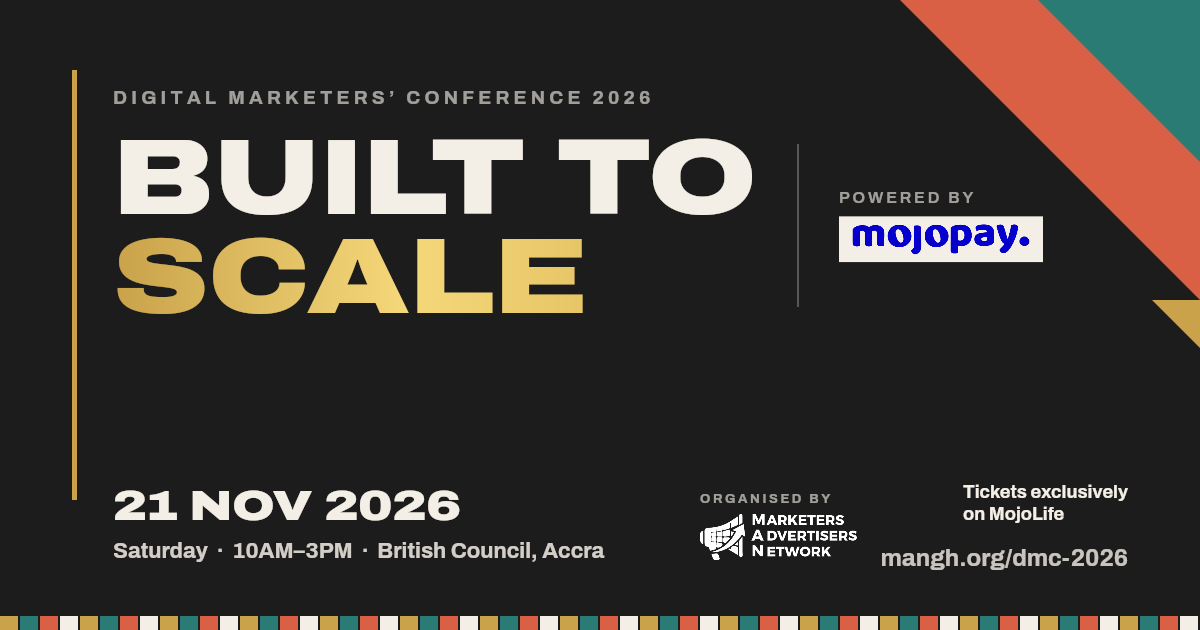
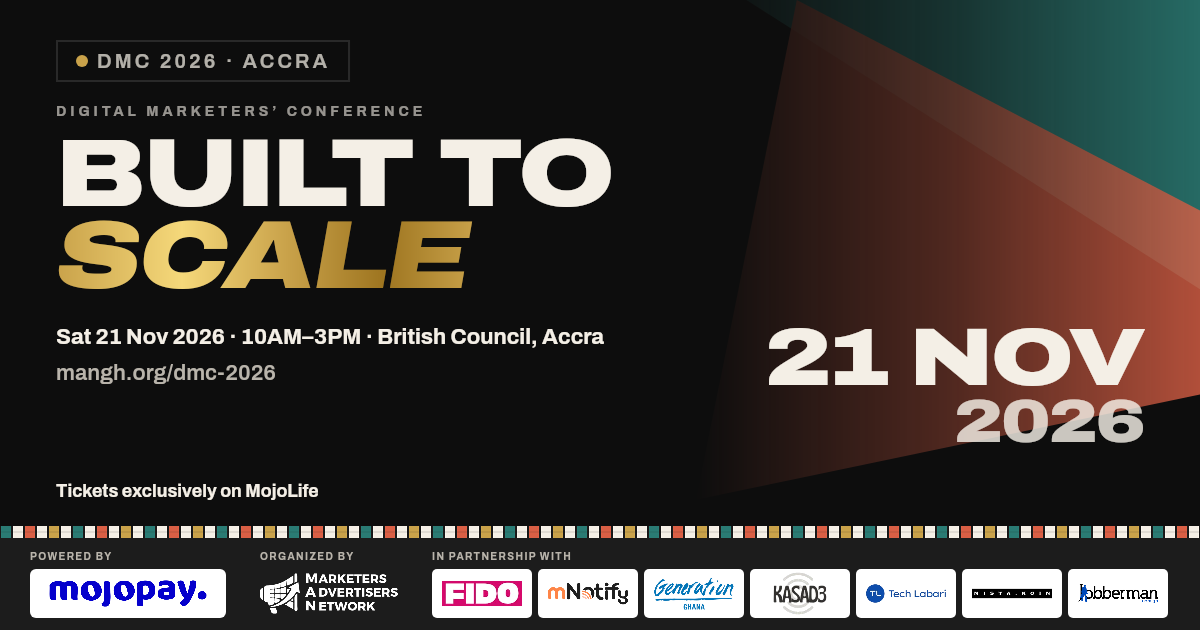
feat(og): link previews in the flyers' look
tools/og-dmc.js now draws with the participant-flyer renderer: ink ground, the hero planes, pill,
eyebrow, BUILT TO SCALE with the foil SCALE, the date on the planes, the ticket line and the flat
partner band (white MojoPay tile at the minimum, M·A·N, seven partners). The og:image and
twitter:image URLs carry a content hash so social networks fetch the new image; sponsor-check allows it.

diff --git a/tools/og-dmc.js b/tools/og-dmc.js
@@ -1,4 +1,4 @@
-/* Makes the DMC 2026 link-preview images (Open Graph / Twitter, 1200x630), drawn here from scratch with the same header as every other DMC 2026 asset:
+/* Makes the DMC 2026 link-preview images (Open Graph / Twitter, 1200x630) in the flyers' look (see make() below). Earlier header notes:
    "BUILT TO" in cream, "SCALE" in the website's gold gradient, "Powered by MojoPay" (the shared lockup, assets/sponsor/) beside the title block,
    and the line "Tickets exclusively on MojoLife" in the footer row. The M·A·N logo is not in the header; "Organised by M·A·N" is in the footer row.
      node tools/og-dmc.js            writes assets/og-dmc-2026.png (dmc-2026 and press pages) and assets/og-home-dmc-2026.png (the home page)
@@ -33,52 +33,39 @@ function tracked(ctx, text, x, y, spacing) {
   return cx - x - spacing;
 }
 
+/* Restyled 14 Nov 2026: drawn with the participant flyers' renderer (assets/flyer/flyer-render.js on @napi-rs/canvas, via
+   lib/studio/render.js), so the link previews share the flyers' and DMC Studio's look: ink ground, the hero planes on the right,
+   the pill and eyebrow, BUILT TO SCALE with the gold-foil italic SCALE, and the flat partner band (POWERED BY MojoPay on the white
+   tile, ORGANIZED BY M·A·N, the seven partners) with the ticket line above it. */
 async function make(out, opts, dir) {
+  const { FLY } = require('../lib/studio/render.js');
+  await FLY.load();
+  const I = FLY._internal, K = I.C;
   const c = createCanvas(W, H), ctx = c.getContext('2d');
-  ctx.textBaseline = 'alphabetic'; ctx.textAlign = 'left';
-  ctx.fillStyle = C.ob; ctx.fillRect(0, 0, W, H);
-
-  /* corner triangles (coral behind, teal in front, a thin gold wedge below), the slim gold bar on the left, the kente strip along the bottom */
-  const tri = (col, a, b, cc) => { ctx.fillStyle = col; ctx.beginPath(); ctx.moveTo(a[0], a[1]); ctx.lineTo(b[0], b[1]); ctx.lineTo(cc[0], cc[1]); ctx.closePath(); ctx.fill(); };
-  tri(C.co, [W, 0], [W, 300], [W - 300, 0]);
-  tri(C.te, [W, 0], [W, 162], [W - 162, 0]);
-  tri(C.go, [W, 300], [W, 348], [W - 48, 300]);
-  ctx.fillStyle = C.go; ctx.fillRect(72, 70, 5, 430);
-  const seg = [[C.go, 18], [C.ob, 2], [C.te, 18], [C.ob, 2], [C.co, 18], [C.ob, 2], [C.cr, 18], [C.ob, 2]];
-  for (let x = 0, i = 0; x < W; x += seg[i % seg.length][1], i++) { ctx.fillStyle = seg[i % seg.length][0]; ctx.fillRect(x, H - 14, Math.min(seg[i % seg.length][1], W - x), 14); }
-
-  /* header: kicker, then the title block with "Powered by MojoPay" beside it */
-  const lx = 113;
-  ctx.fillStyle = 'rgba(244,239,230,.62)'; ctx.font = font(19, 700);
-  tracked(ctx, 'DIGITAL MARKETERS’ CONFERENCE 2026', lx, 104, 4.2);
-  const px = 108, cap = Math.round(px * 0.7), lh = Math.round(px * 0.92), top = 138;
-  ctx.font = px + 'px DMCArchivoXK';
-  const b1 = top + cap, b2 = b1 + lh;
-  const tw = ctx.measureText('BUILT TO').width, sw = ctx.measureText('SCALE').width;
-  ctx.fillStyle = C.cr; ctx.fillText('BUILT TO', lx, b1);
-  const g = ctx.createLinearGradient(lx, 0, lx + sw, 0);
-  g.addColorStop(0, C.go); g.addColorStop(0.62, '#F5D87A'); g.addColorStop(1, '#E6C566');
-  ctx.fillStyle = g; ctx.fillText('SCALE', lx, b2);
-
-  const tileW = Math.max(SP.minTileW(W, false), 204);
-  const imgs = await sponsorImages();
-  const o = { variant: 'stacked', tileW, images: imgs, font };
-  const a = SP.measure(ctx, Object.assign({ kind: 'mojopay' }, o));
-  const gapX = Math.max(40, Math.ceil(SP.clearSpace(tileW) * 1.6));
-  const rx = Math.round(lx + tw + gapX), blockH = b2 - top;
-  ctx.fillStyle = 'rgba(244,239,230,.28)'; ctx.fillRect(rx, top + 6, 2, blockH - 12);
-  const pl = [SP.draw(ctx, Object.assign({ kind: 'mojopay', x: rx + 2 + gapX, y: Math.round(top + (blockH - a.h) / 2) }, o))];
-
-  /* footer row: date and venue, the organiser, the ticket line, the address */
-  ctx.fillStyle = C.cr; ctx.font = '42px DMCArchivoXK'; ctx.fillText('21 NOV 2026', lx, 520);
-  ctx.fillStyle = 'rgba(244,239,230,.85)'; ctx.font = font(22, 700); ctx.fillText('Saturday  ·  10AM–3PM  ·  British Council, Accra', lx, 558);
-  const logo = await loadImage(fs.readFileSync(path.join(ROOT, 'assets', 'man-logo.png')));
-  const ox = 700, lgH = 46, lgW = Math.round(lgH * logo.width / logo.height);
-  ctx.fillStyle = 'rgba(244,239,230,.62)'; ctx.font = font(13, 700); tracked(ctx, 'ORGANISED BY', ox, 503, 2.6);
-  ctx.drawImage(logo, ox, 514, lgW, lgH);
-  pl.push(SP.drawTicketLine(ctx, { x: 1128, y: 480, tileW, variant: 'horizontal', font, align: 'right' }));
-  ctx.fillStyle = 'rgba(244,239,230,.8)'; ctx.font = font(24, 700); ctx.textAlign = 'right'; ctx.fillText('mangh.org/dmc-2026', 1128, 566); ctx.textAlign = 'left';
-
+  const stripH = 92, kenteH = 12, bandY = H - stripH, kenteY = bandY - kenteH;
+  ctx.fillStyle = K.INK; ctx.fillRect(0, 0, W, H);
+  I.heroGeo(ctx, Math.round(W * 0.58), 0, Math.round(W * 0.42), kenteY);
+  const x = 56;
+  I.pill(ctx, x, 40, 42, 18, 9, 20);
+  const T = (str, X, top, LH, o) => I.drawText(ctx, str, X, top, LH, o);
+  const ey = { pin: 'B', size: 14, weight: 700, track: 0.28, fill: 'rgba(244,239,230,.6)' };
+  T('DIGITAL MARKETERS’ CONFERENCE', x, 102, 20, Object.assign({ id: 'eyebrow' }, ey));
+  const hs = 96, LH = hs * 0.85, hy = 134;
+  T('BUILT TO', x, hy, LH, { pin: 'D', size: hs, weight: 900, track: -0.02, fill: K.CREAM, id: 'BUILT TO' });
+  const sw = I.measureW(ctx, 'SCALE', 'DI', hs, 900, -0.02);
+  T('SCALE', x, hy + LH, LH, { pin: 'DI', size: hs, weight: 900, track: -0.02, fill: I.foil(ctx, x, sw + 0.08 * hs), id: 'SCALE' });
+  T('Sat 21 Nov 2026 · 10AM–3PM · British Council, Accra', x, hy + 2 * LH + 26, 28, { pin: 'B', size: 22, weight: 700, fill: K.CREAM, id: 'facts' });
+  T('mangh.org/dmc-2026', x, hy + 2 * LH + 62, 28, { pin: 'B', size: 22, weight: 600, fill: K.SOFT, id: 'url' });
+  /* the date, large on the planes */
+  T('21 NOV', W - 56, 318, 80, { pin: 'D', size: 82, weight: 900, track: -0.02, fill: K.CREAM, align: 'right', id: 'date1' });
+  T('2026', W - 56, 392, 60, { pin: 'D', size: 60, weight: 900, track: -0.02, fill: 'rgba(244,239,230,.82)', align: 'right', id: 'date2' });
+  /* the ticket line (contract) above the band, then the kente and the band */
+  const tl = I.ticketLine(ctx, x, kenteY - 46, 560, Math.max(17, Math.ceil(W * SP.config.MIN_TICKET_TEXT_PCT) / 100 + 1));
+  ctx.fillStyle = '#000'; ctx.save(); ctx.translate(0, kenteY); const k = FLY.assets.img.kente;
+  if (k) { const sc = kenteH / 24; ctx.scale(sc, sc); ctx.fillStyle = I.tilePattern(ctx, k, 0, 0); ctx.fillRect(0, 0, W / sc + 24, 24); }
+  ctx.restore();
+  const b = I.bandRow(ctx, { x: 0, y: bandY, w: W, h: stripH, mojoW: SP.minTileW(W, false) + 4, labelSize: 10, padX: 30 });
+  const pl = [{ kind: 'mojopay', x: b.mojo.x, y: b.mojo.y, w: b.mojo.w, h: b.mojo.h, tile: b.mojo, colour: b.mojo.colour }, tl];
   fs.writeFileSync(path.join(dir || path.join(ROOT, 'assets'), out), c.toBuffer('image/png'));
   return { out, placements: pl, problems: SP.check(pl, W, H, false) };
 }

diff --git a/dmc-2026.html b/dmc-2026.html
@@ -55,14 +55,14 @@
 <meta property="og:title" content="Digital Marketers’ Conference 2026 — Built To Scale | 21 Nov, Accra">
 <meta property="og:description" content="DMC 2026 — Built To Scale. Sat 21 Nov, 10AM–3PM, British Council Accra. Keynotes, panels, a pitching masterclass and breakouts. Tickets GH₵150 on MojoPay.">
 <meta property="og:url" content="https://mangh.org/dmc-2026">
-<meta property="og:image" content="https://mangh.org/assets/og-dmc-2026.png">
+<meta property="og:image" content="https://mangh.org/assets/og-dmc-2026.png?v=9e252553">
 <meta property="og:image:width" content="1200">
 <meta property="og:image:height" content="630">
 <meta property="og:image:alt" content="Digital Marketers’ Conference 2026 — Built To Scale. 21 November 2026, British Council Accra.">
 <meta name="twitter:card" content="summary_large_image">
 <meta name="twitter:title" content="Digital Marketers’ Conference 2026 — Built To Scale | 21 Nov, Accra">
 <meta name="twitter:description" content="DMC 2026 — Built To Scale. Sat 21 Nov, 10AM–3PM, British Council Accra. Keynotes, panels, a pitching masterclass and breakouts. Tickets GH₵150 on MojoPay.">
-<meta name="twitter:image" content="https://mangh.org/assets/og-dmc-2026.png">
+<meta name="twitter:image" content="https://mangh.org/assets/og-dmc-2026.png?v=9e252553">
 <link rel="preload" href="/assets/fonts/archivo-normal.woff2" as="font" type="font/woff2" crossorigin>
 <link rel="stylesheet" href="/assets/styles.css?v=63fa18db">
 <link rel="stylesheet" href="/assets/flyer/flyer-tool.css?v=79399cbc">
@@ -113,7 +113,7 @@
   }
  },
  "image": [
-  "https://mangh.org/assets/og-dmc-2026.png"
+  "https://mangh.org/assets/og-dmc-2026.png?v=9e252553"
  ],
  "organizer": {
   "@id": "https://mangh.org/#organization"

diff --git a/press.html b/press.html
@@ -55,14 +55,14 @@
 <meta property="og:title" content="Press and Media Kit — DMC 2026 | M·A·N">
 <meta property="og:description" content="Facts, boilerplate copy, speaker and sponsor lists and photo downloads for journalists covering the Digital Marketers’ Conference 2026 (21 Nov, British Council Accra) by the Marketers &amp; Advertisers Network.">
 <meta property="og:url" content="https://mangh.org/press">
-<meta property="og:image" content="https://mangh.org/assets/og-dmc-2026.png">
+<meta property="og:image" content="https://mangh.org/assets/og-dmc-2026.png?v=9e252553">
 <meta property="og:image:width" content="1200">
 <meta property="og:image:height" content="630">
 <meta property="og:image:alt" content="Digital Marketers’ Conference 2026 — Built To Scale. 21 November 2026, British Council Accra.">
 <meta name="twitter:card" content="summary_large_image">
 <meta name="twitter:title" content="Press and Media Kit — DMC 2026 | M·A·N">
 <meta name="twitter:description" content="Facts, boilerplate copy, speaker and sponsor lists and photo downloads for journalists covering the Digital Marketers’ Conference 2026 (21 Nov, British Council Accra) by the Marketers &amp; Advertisers Network.">
-<meta name="twitter:image" content="https://mangh.org/assets/og-dmc-2026.png">
+<meta name="twitter:image" content="https://mangh.org/assets/og-dmc-2026.png?v=9e252553">
 <link rel="preload" href="/assets/fonts/archivo-normal.woff2" as="font" type="font/woff2" crossorigin>
 <link rel="stylesheet" href="/assets/styles.css?v=63fa18db">
 <script type="application/ld+json">

diff --git a/index.html b/index.html
@@ -55,14 +55,14 @@
 <meta property="og:title" content="M·A·N — Marketers &amp; Advertisers Network, Ghana">
 <meta property="og:description" content="Marketers &amp; Advertisers Network (M·A·N) is Ghana&#x27;s peer-driven community for marketing and advertising professionals, home of DMC and MAN Sessions.">
 <meta property="og:url" content="https://mangh.org/">
-<meta property="og:image" content="https://mangh.org/assets/og-home-dmc-2026.png">
+<meta property="og:image" content="https://mangh.org/assets/og-home-dmc-2026.png?v=9e252553">
 <meta property="og:image:width" content="1200">
 <meta property="og:image:height" content="630">
 <meta property="og:image:alt" content="M·A·N — Marketers &amp; Advertisers Network. DMC 2026 — Built To Scale, 21 November 2026, British Council Accra.">
 <meta name="twitter:card" content="summary_large_image">
 <meta name="twitter:title" content="M·A·N — Marketers &amp; Advertisers Network, Ghana">
 <meta name="twitter:description" content="Marketers &amp; Advertisers Network (M·A·N) is Ghana&#x27;s peer-driven community for marketing and advertising professionals, home of DMC and MAN Sessions.">
-<meta name="twitter:image" content="https://mangh.org/assets/og-home-dmc-2026.png">
+<meta name="twitter:image" content="https://mangh.org/assets/og-home-dmc-2026.png?v=9e252553">
 <link rel="preload" href="/assets/fonts/archivo-normal.woff2" as="font" type="font/woff2" crossorigin>
 <link rel="stylesheet" href="/assets/styles.css?v=63fa18db">
 <script type="application/ld+json">

diff --git a/tools/sponsor-check.js b/tools/sponsor-check.js
@@ -91,7 +91,8 @@ async function verify(name, pngBuf, placements, w, h, tall) {
   }
   for (const [page, file] of [['dmc-2026.html', 'og-dmc-2026.png'], ['index.html', 'og-home-dmc-2026.png'], ['press.html', 'og-dmc-2026.png']]) {
     const html = fs.readFileSync(path.join(ROOT, page), 'utf8');
-    if (!html.includes('content="https://mangh.org/assets/' + file + '"')) fail(page + ' does not point its og:image at ' + file);
+    /* a ?v=<hash> is allowed: it makes social networks fetch a changed image instead of their cached copy */
+    if (!new RegExp('content="https://mangh\\.org/assets/' + file.replace('.', '\\.') + '(\\?v=[a-f0-9]+)?"').test(html)) fail(page + ' does not point its og:image at ' + file);
   }
   /* the shared image stays out of this: pages that are not DMC 2026 keep it */
   console.log('link previews: 2 images, 3 pages checked');
